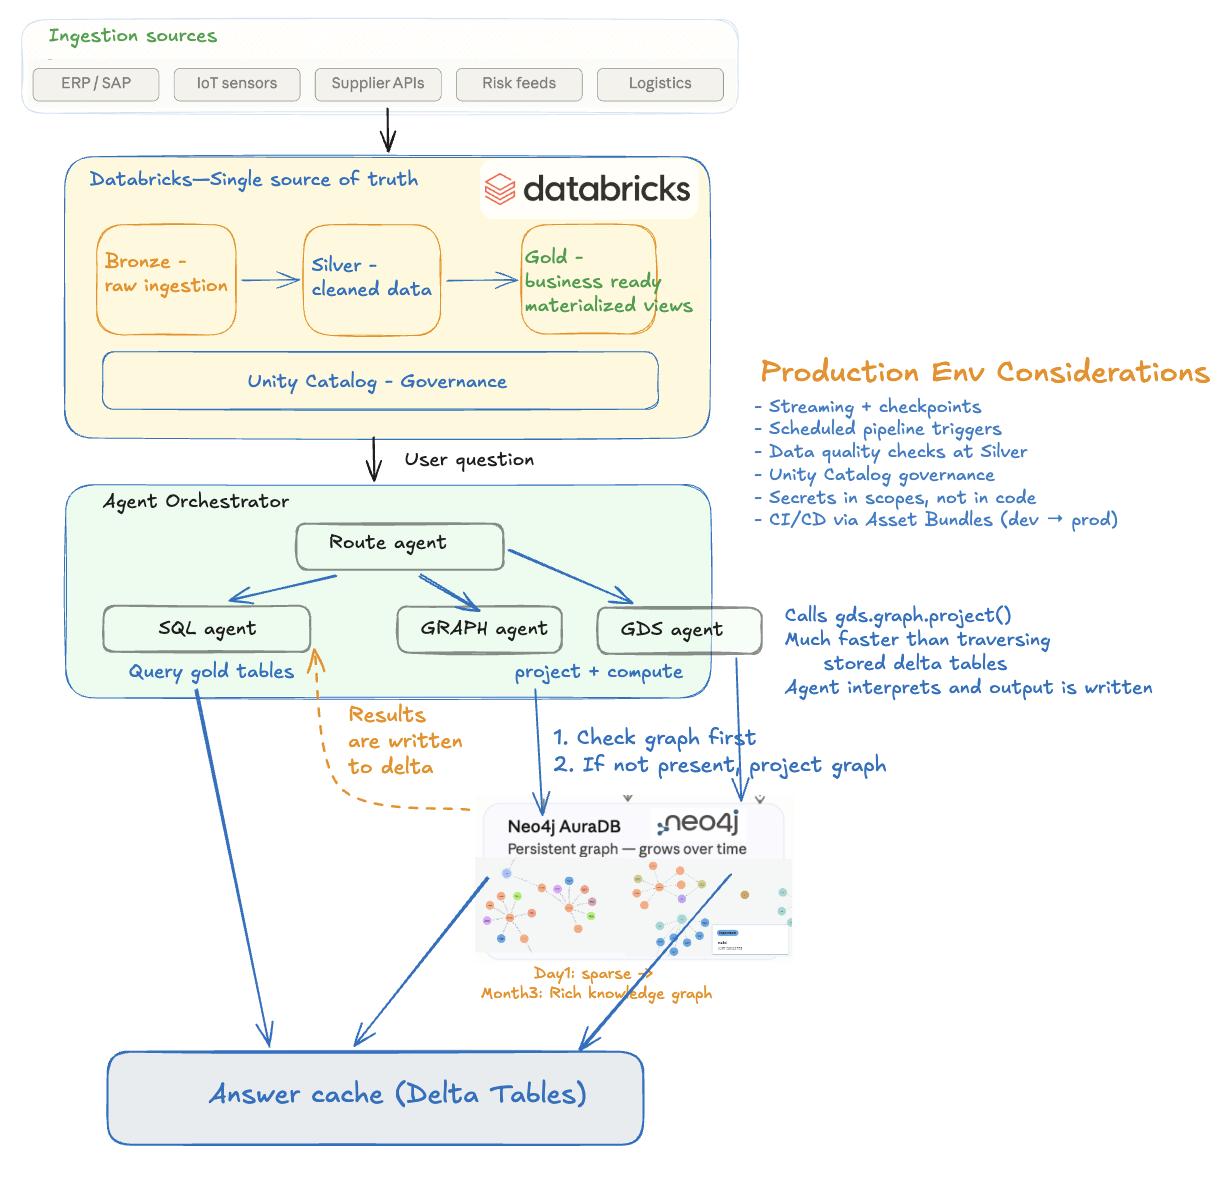
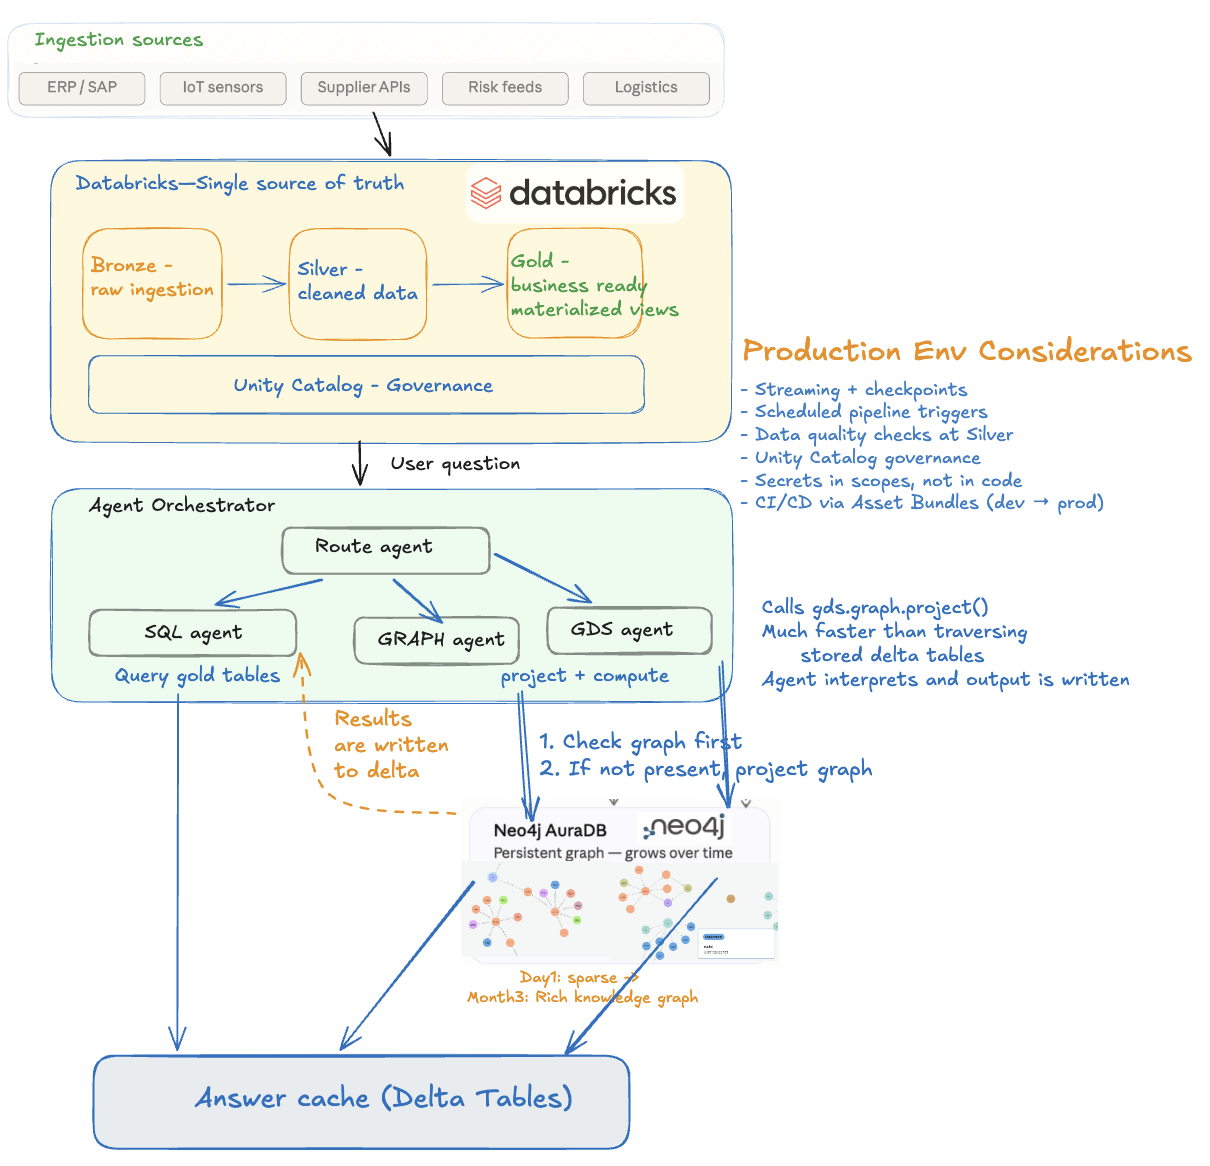
Phase 3
Changed theme on app and arch screenshot

Changed region(s): [[0.0, 0.0, 1.0, 0.988], [0.1835, 0.7101, 0.214, 0.8336]]

diff --git a/app/app.py b/app/app.py
@@ -377,6 +377,12 @@ Three named in-memory graph projections are pre-created for you:
 - "facility_network"     — Supplier + Facility nodes, SHIPS_TO relationships (Supplier→Facility)
   Best for: gds.betweenness, gds.shortestPath.dijkstra, gds.louvain
 
+Node properties (use these exact names):
+- Supplier: id, name, country, tier, reliability_score, risk_score, risk_tier
+- Part:     id, name, category, is_critical
+- Facility: id, name, region
+- Shipment: id, carrier, status, delay_days, disruption_severity
+
 GDS procedure patterns:
   CALL gds.pageRank.stream("<projection>", {maxIterations: 20, dampingFactor: 0.85})
        YIELD nodeId, score
@@ -558,28 +564,96 @@ def chat(message: str, history: list, model: str, thinking: bool) -> str:
     answer, route_label = route_and_answer(message, model, thinking)
     return f"**[{route_label}]**\n\n{answer}"
 
-demo = gr.ChatInterface(
-    fn=chat,
-    title="Supply Chain Optimizer",
-    description="Ask questions about supplier risk, part availability, shipment disruptions, and BOM dependencies. Routes to **SQL** (Delta Lake) or **Graph** (Neo4j) automatically.",
-    examples=[[q, "claude-sonnet-4-6", False] for q in EXAMPLE_QUESTIONS],
-    chatbot=gr.Chatbot(height=650),
-    theme=gr.themes.Soft(),
-    additional_inputs=[
-        gr.Dropdown(
-            choices=CLAUDE_MODELS,
-            value="claude-sonnet-4-6",
-            label="Model",
-            info="Sonnet is faster for SQL; Opus is better for complex graph reasoning.",
-        ),
-        gr.Checkbox(
-            value=False,
-            label="Adaptive Thinking (Opus only)",
-            info="Enables extended thinking — slower but better for complex multi-hop queries.",
-        ),
-    ],
-    additional_inputs_accordion=gr.Accordion(label="⚙ Model Settings", open=False),
-)
+CUSTOM_CSS = """
+.input-container textarea {
+    background-color: #f0f7ff !important;
+    border: 2px solid #3b82f6 !important;
+    border-radius: 10px !important;
+    font-size: 15px !important;
+    color: #1e293b !important;
+}
+.input-container textarea:focus {
+    border-color: #1d4ed8 !important;
+    box-shadow: 0 0 0 3px rgba(59, 130, 246, 0.2) !important;
+}
+.input-container textarea::placeholder {
+    color: #94a3b8 !important;
+}
+"""
+
+def get_status() -> str:
+    lines = ["### Neo4j AuraDB — Node Counts"]
+    try:
+        rows = neo4j_query("MATCH (n) RETURN labels(n)[0] AS label, count(n) AS count ORDER BY count DESC")
+        if rows:
+            lines.append("| Label | Count |")
+            lines.append("|-------|-------|")
+            for r in rows:
+                lines.append(f"| {r.get('label','?')} | {r.get('count',0)} |")
+        else:
+            lines.append("_No nodes found._")
+    except Exception as e:
+        lines.append(f"_Error: {e}_")
+
+    lines.append("\n### Neo4j AuraDB — Relationship Counts")
+    try:
+        rows = neo4j_query("MATCH ()-[r]->() RETURN type(r) AS rel_type, count(r) AS count ORDER BY count DESC")
+        if rows:
+            lines.append("| Relationship | Count |")
+            lines.append("|-------------|-------|")
+            for r in rows:
+                lines.append(f"| {r.get('rel_type','?')} | {r.get('count',0)} |")
+        else:
+            lines.append("_No relationships found._")
+    except Exception as e:
+        lines.append(f"_Error: {e}_")
+
+    lines.append("\n### GDS Named Graph Projections")
+    try:
+        rows = neo4j_query("CALL gds.graph.list() YIELD graphName, nodeCount, relationshipCount, creationTime")
+        if rows:
+            lines.append("| Projection | Nodes | Relationships | Created |")
+            lines.append("|-----------|-------|---------------|---------|")
+            for r in rows:
+                lines.append(f"| {r['graphName']} | {r['nodeCount']} | {r['relationshipCount']} | {str(r.get('creationTime',''))[:19]} |")
+        else:
+            lines.append("_No GDS projections in memory._")
+    except Exception as e:
+        lines.append(f"_Error: {e}_")
+
+    return "\n".join(lines)
+
+with gr.Blocks(theme=gr.themes.Soft(), css=CUSTOM_CSS) as demo:
+    gr.Markdown("# Supply Chain Optimizer")
+    gr.Markdown("Ask questions about supplier risk, part availability, shipment disruptions, and BOM dependencies. Routes to **SQL** (Delta Lake), **Graph** (Neo4j), or **GDS** (graph algorithms) automatically.")
+    with gr.Tabs():
+        with gr.Tab("💬 Chat"):
+            gr.ChatInterface(
+                fn=chat,
+                title=None,
+                description=None,
+                examples=[[q, "claude-sonnet-4-6", False] for q in EXAMPLE_QUESTIONS],
+                chatbot=gr.Chatbot(height=650),
+                textbox=gr.Textbox(placeholder="Ask a supply chain question...", container=False, elem_classes=["input-container"]),
+                additional_inputs=[
+                    gr.Dropdown(
+                        choices=CLAUDE_MODELS,
+                        value="claude-sonnet-4-6",
+                        label="Model",
+                        info="Sonnet is faster for SQL; Opus is better for complex graph reasoning.",
+                    ),
+                    gr.Checkbox(
+                        value=False,
+                        label="Adaptive Thinking (Opus only)",
+                        info="Enables extended thinking — slower but better for complex multi-hop queries.",
+                    ),
+                ],
+                additional_inputs_accordion=gr.Accordion(label="⚙ Model Settings", open=False),
+            )
+        with gr.Tab("📊 Status"):
+            status_output = gr.Markdown()
+            gr.Button("Refresh", variant="primary").click(fn=get_status, outputs=status_output)
+            demo.load(fn=get_status, outputs=status_output)
 
 if __name__ == "__main__":
     demo.launch(server_name="0.0.0.0", server_port=int(os.environ.get("PORT", 8000)))
